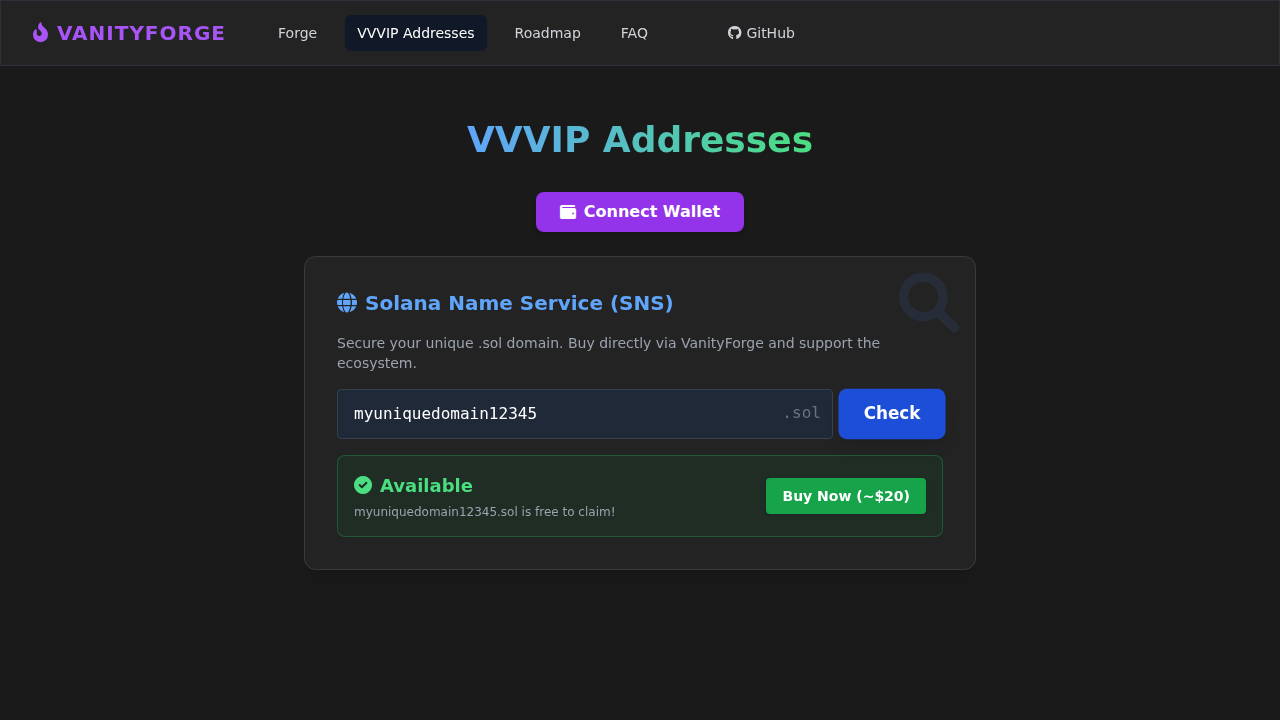
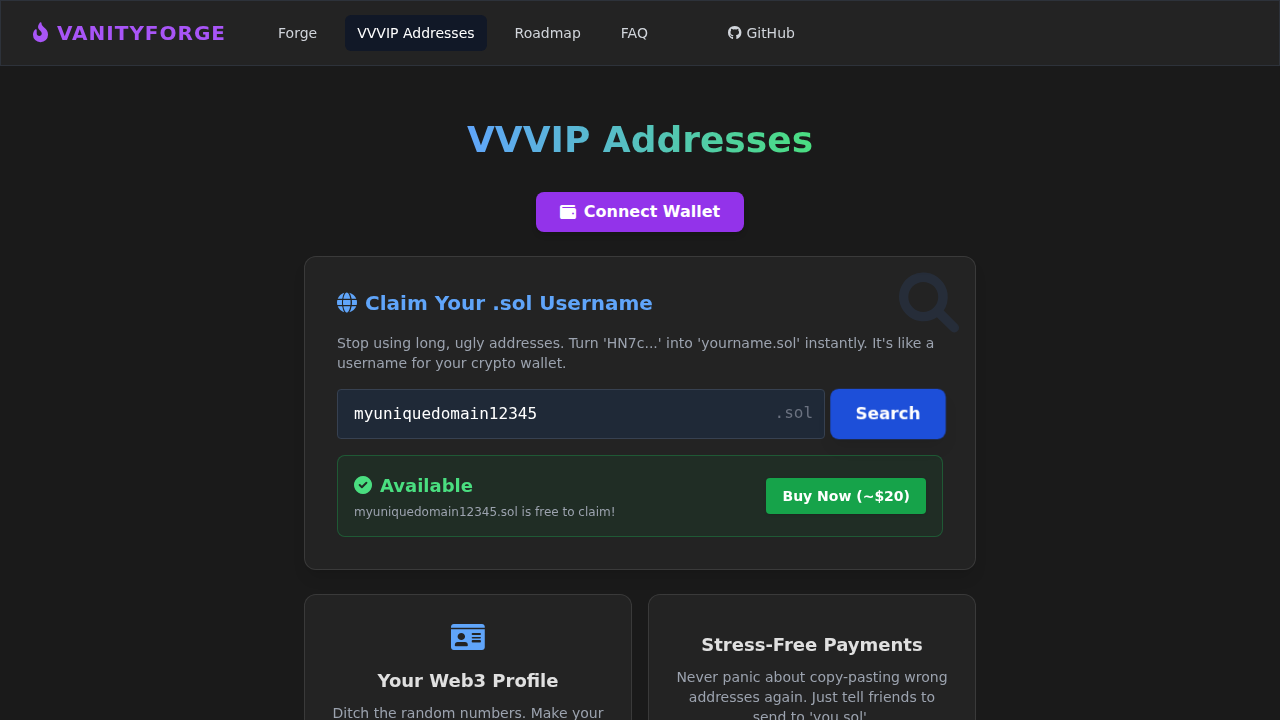
Update VVVIP page with marketing focus and benefits grid

diff --git a/vvvip.html b/vvvip.html
@@ -91,24 +91,52 @@
                 <i class="fa-solid fa-search text-6xl text-blue-500"></i>
             </div>
             <h2 class="text-xl font-bold mb-4 text-blue-400 flex items-center gap-2">
-                <i class="fa-solid fa-globe"></i> Solana Name Service (SNS)
+                <i class="fa-solid fa-globe"></i> Claim Your .sol Username
             </h2>
             <p class="text-sm text-gray-400 mb-4">
-                Secure your unique .sol domain. Buy directly via VanityForge and support the ecosystem.
+                Stop using long, ugly addresses. Turn 'HN7c...' into 'yourname.sol' instantly. It's like a username for your crypto wallet.
             </p>
             <div class="flex gap-2 items-center mb-4">
                 <div class="flex-grow">
                     <div class="relative">
-                        <input type="text" id="sns-domain-input" class="w-full bg-gray-800 border border-gray-700 rounded p-3 pl-4 focus:border-blue-500 focus:outline-none text-white font-mono placeholder-gray-600" placeholder="check-your-name">
+                        <input type="text" id="sns-domain-input" class="w-full bg-gray-800 border border-gray-700 rounded p-3 pl-4 focus:border-blue-500 focus:outline-none text-white font-mono placeholder-gray-600" placeholder="yourname">
                         <span class="absolute right-3 top-3 text-gray-500 font-mono">.sol</span>
                     </div>
                 </div>
                 <button onclick="checkSNS()" id="sns-check-btn" class="bg-blue-600 hover:bg-blue-700 text-white font-bold py-3 px-6 rounded-lg shadow-lg transition transform hover:scale-105">
-                    Check
+                    Search
                 </button>
             </div>
             <div id="sns-result" class="hidden rounded-lg p-4 flex justify-between items-center animate-fade-in">
                 <!-- Result injected here -->
+            </div>
+        </div>
+
+        <!-- Benefits Grid Section -->
+        <div class="grid grid-cols-1 md:grid-cols-2 gap-4">
+            <!-- Card 1 -->
+            <div class="glass-panel p-6 rounded-xl flex flex-col items-center text-center">
+                <i class="fa-solid fa-id-card text-3xl text-blue-400 mb-3"></i>
+                <h3 class="font-bold text-lg mb-2">Your Web3 Profile</h3>
+                <p class="text-sm text-gray-400">Ditch the random numbers. Make your wallet recognizable on Solscan, Phantom, and leaderboards.</p>
+            </div>
+            <!-- Card 2 -->
+            <div class="glass-panel p-6 rounded-xl flex flex-col items-center text-center">
+                <i class="fa-solid fa-money-bill-transfer text-3xl text-green-400 mb-3"></i>
+                <h3 class="font-bold text-lg mb-2">Stress-Free Payments</h3>
+                <p class="text-sm text-gray-400">Never panic about copy-pasting wrong addresses again. Just tell friends to send to 'you.sol'.</p>
+            </div>
+            <!-- Card 3 -->
+            <div class="glass-panel p-6 rounded-xl flex flex-col items-center text-center">
+                <i class="fa-solid fa-globe text-3xl text-purple-400 mb-3"></i>
+                <h3 class="font-bold text-lg mb-2">Works Everywhere</h3>
+                <p class="text-sm text-gray-400">Native support on all major Solana wallets (Phantom, Solflare, Backpack) and apps.</p>
+            </div>
+            <!-- Card 4 -->
+            <div class="glass-panel p-6 rounded-xl flex flex-col items-center text-center">
+                <i class="fa-solid fa-shield-halved text-3xl text-yellow-400 mb-3"></i>
+                <h3 class="font-bold text-lg mb-2">100% Owned by You</h3>
+                <p class="text-sm text-gray-400">Your name is an on-chain asset (NFT). You have full control to keep it, sell it, or trade it.</p>
             </div>
         </div>
 
@@ -179,7 +207,7 @@
                 alert("Error checking domain availability.");
             } finally {
                 btn.disabled = false;
-                btn.innerHTML = 'Check';
+                btn.innerHTML = 'Search';
             }
         }
 
